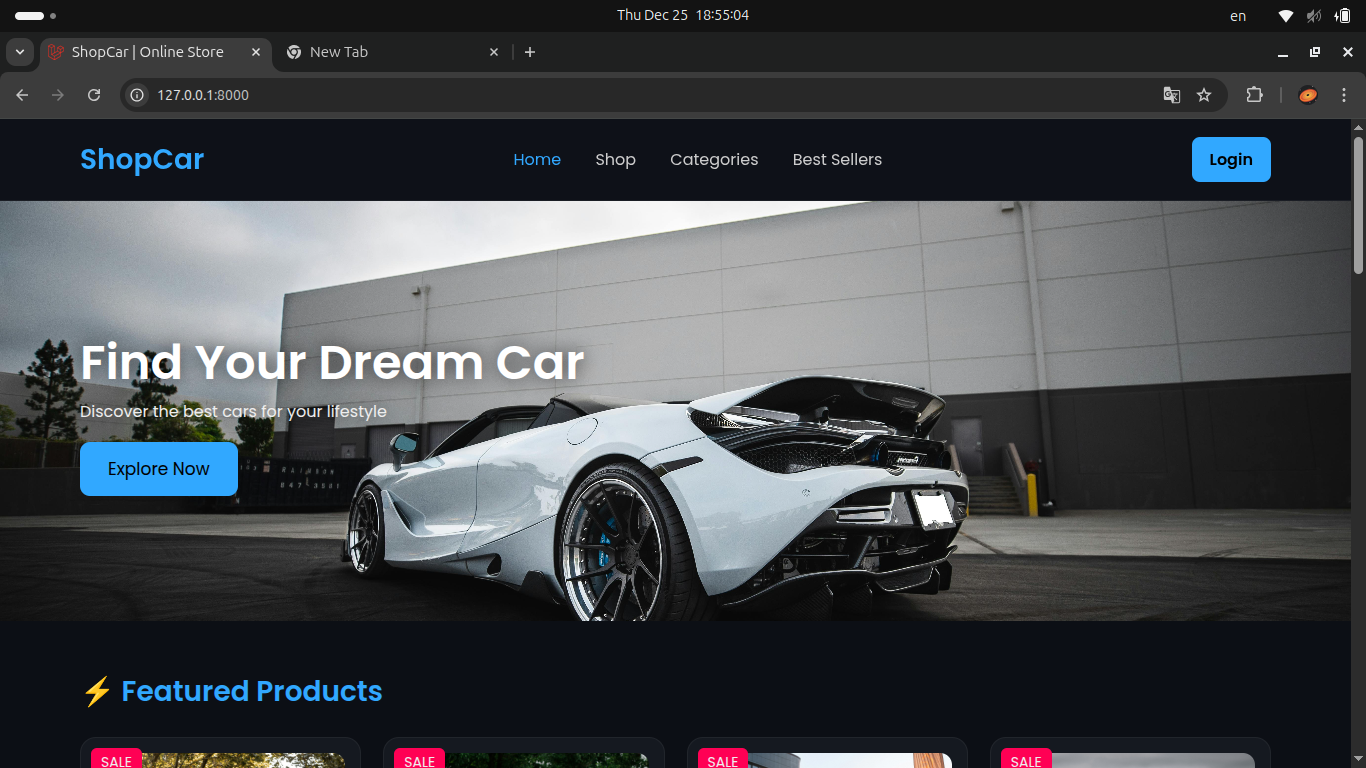
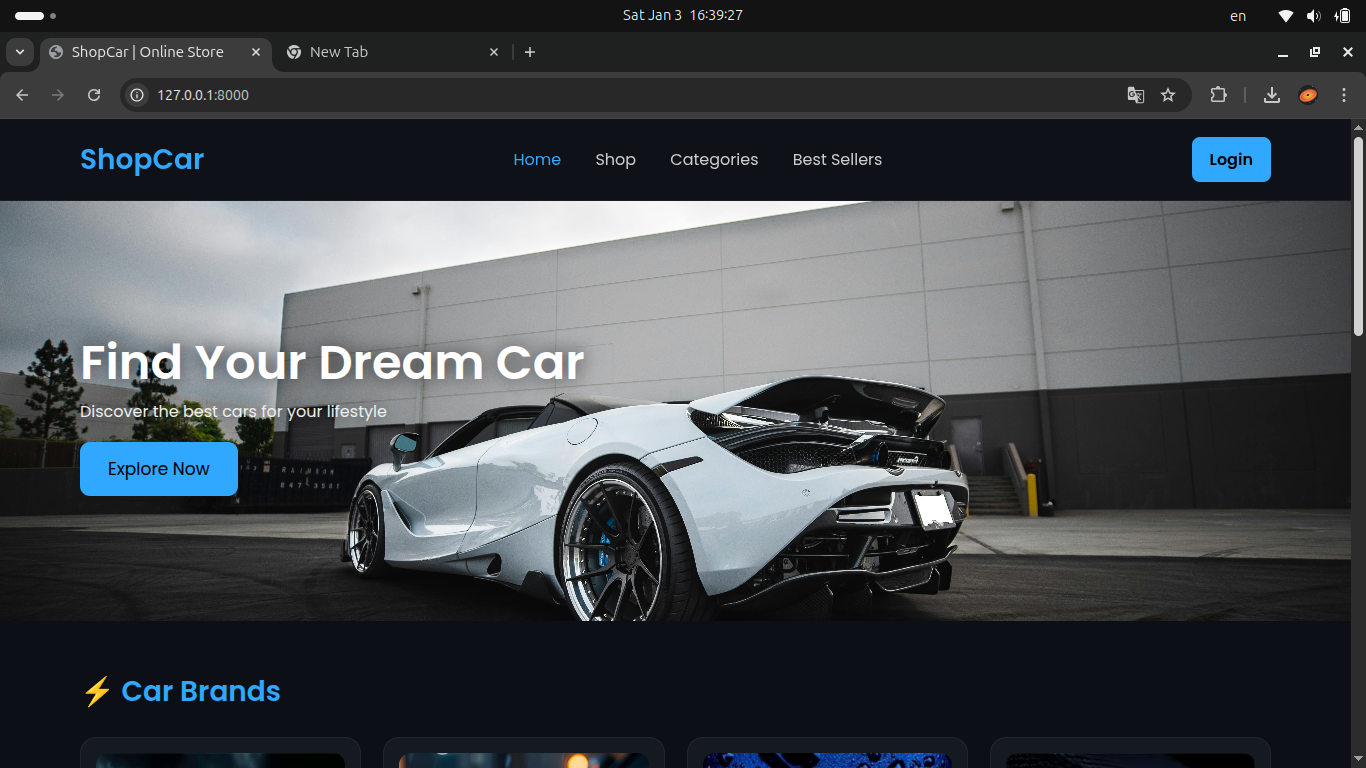
[7] - Changes to the welcome page

diff --git a/resources/views/welcome.blade.php b/resources/views/welcome.blade.php
@@ -61,247 +61,71 @@
 
         <section class="products">
             
-            <h2>⚡ Featured Products</h2>
+            <h2>⚡ Car Brands</h2>
 
             <div class="product-grid">
 
                 <div class="product-card">
-                
-                    <span class="badge-sale">SALE</span>
 
-                    <img src="{{ asset('img/cars/audi/audi_1.jpg') }}" alt="Audi R8">
+                    <img src="{{ asset('img/logo/mercedes.jpeg') }}" alt="mercedes logo">
                 
-                    <h3>Audi R8</h3>
-                
-                    <div class="rating">⭐ 4.9</div>
-                
-                    <p class="price">$150,000 <span class="old-price">$170,000</span></p>
-                
-                    <button class="add-cart">Add to Cart</button>
+                    <h3>Mercedes</h3>
             
                 </div>
 
                 <div class="product-card">
+
+                    <img src="{{ asset('img/logo/bmw.jpeg') }}" alt="bmw logo">
                 
-                    <span class="badge-sale">SALE</span>
-                
-                    <img src="{{ asset('img/cars/audi/audi_2.jpg') }}" alt="Audi Q7">
-                
-                    <h3>Audi Q7</h3>
-                
-                    <div class="rating">⭐ 4.7</div>
-                
-                    <p class="price">$70,000 <span class="old-price">$85,000</span></p>
-                
-                    <button class="add-cart">Add to Cart</button>
+                    <h3>BMW</h3>
             
                 </div>
 
                 <div class="product-card">
+
+                    <img src="{{ asset('img/logo/audi.jpeg') }}" alt="audi logo">
                 
-                    <span class="badge-sale">SALE</span>
-                
-                    <img src="{{ asset('img/cars/audi/audi_3.jpg') }}" alt="Audi Q7">
-                
-                    <h3>Audi Q7</h3>
-                
-                    <div class="rating">⭐ 4.7</div>
-                
-                    <p class="price">$70,000 <span class="old-price">$85,000</span></p>
-                
-                    <button class="add-cart">Add to Cart</button>
+                    <h3>Audi</h3>
             
                 </div>
 
                 <div class="product-card">
+
+                    <img src="{{ asset('img/logo/lamborghini.jpeg') }}" alt="lamborghini logo">
                 
-                    <span class="badge-sale">SALE</span>
-                
-                    <img src="{{ asset('img/cars/bmw/bmw_1.jpg') }}" alt="BMW i8">
-                
-                    <h3>BMW i8</h3>
-                
-                    <div class="rating">⭐ 4.8</div>
-                
-                    <p class="price">$140,000 <span class="old-price">$160,000</span></p>
-                
-                    <button class="add-cart">Add to Cart</button>
+                    <h3>Lamborgini</h3>
             
                 </div>
 
                 <div class="product-card">
+
+                    <img src="{{ asset('img/logo/ferrari.jpeg') }}" alt="ferrari logo">
                 
-                    <span class="badge-sale">SALE</span>
-                
-                    <img src="{{ asset('img/cars/bmw/bmw_2.jpg') }}" alt="BMW X5">
-                
-                    <h3>BMW X5</h3>
-                
-                    <div class="rating">⭐ 4.6</div>
-                
-                    <p class="price">$65,000 <span class="old-price">$78,000</span></p>
-                
-                    <button class="add-cart">Add to Cart</button>
+                    <h3>Ferrari</h3>
             
                 </div>
 
                 <div class="product-card">
+
+                    <img src="{{ asset('img/logo/porsche.jpeg') }}" alt="porsche logo">
                 
-                    <span class="badge-sale">SALE</span>
-                
-                    <img src="{{ asset('img/cars/bmw/bmw_3.jpg') }}" alt="BMW X5">
-                
-                    <h3>BMW X5</h3>
-                
-                    <div class="rating">⭐ 4.6</div>
-                
-                    <p class="price">$65,000 <span class="old-price">$78,000</span></p>
-                
-                    <button class="add-cart">Add to Cart</button>
+                    <h3>Porsche</h3>
             
                 </div>
 
                 <div class="product-card">
+
+                    <img src="{{ asset('img/logo/volkswagen.jpeg') }}" alt="volkswagen logo">
                 
-                    <span class="badge-sale">SALE</span>
-                
-                    <img src="{{ asset('img/cars/ferrari/ferarri_1.jpg') }}" alt="Ferrari F8">
-                
-                    <h3>Ferrari F8</h3>
-                
-                    <div class="rating">⭐ 5.0</div>
-                
-                    <p class="price">$280,000 <span class="old-price">$300,000</span></p>
-                
-                    <button class="add-cart">Add to Cart</button>
+                    <h3>Volkswagen</h3>
             
                 </div>
 
                 <div class="product-card">
-                
-                    <span class="badge-sale">SALE</span>
-                
-                    <img src="{{ asset('img/cars/ferrari/ferarri_2.jpg') }}" alt="Ferrari SF90">
-                
-                    <h3>Ferrari SF90</h3>
-                
-                    <div class="rating">⭐ 4.9</div>
-                
-                    <p class="price">$350,000 <span class="old-price">$380,000</span></p>
-                
-                    <button class="add-cart">Add to Cart</button>
-            
-                </div>
 
-                <div class="product-card">
+                    <img src="{{ asset('img/logo/bentley.jpeg') }}" alt="bentley logo">
                 
-                    <span class="badge-sale">SALE</span>
-                
-                    <img src="{{ asset('img/cars/ferrari/ferarri_3.jpg') }}" alt="Ferrari F8">
-                
-                    <h3>Ferrari F8</h3>
-                
-                    <div class="rating">⭐ 5.0</div>
-                
-                    <p class="price">$280,000 <span class="old-price">$300,000</span></p>
-                
-                    <button class="add-cart">Add to Cart</button>
-            
-                </div>
-
-                <div class="product-card">
-                
-                    <span class="badge-sale">SALE</span>
-                
-                    <img src="{{ asset('img/cars/lamborghini/lamborghini_1.jpg') }}" alt="Lamborghini Huracan">
-                
-                    <h3>Lamborghini Huracan</h3>
-                
-                    <div class="rating">⭐ 4.8</div>
-                
-                    <p class="price">$250,000 <span class="old-price">$270,000</span></p>
-                
-                    <button class="add-cart">Add to Cart</button>
-            
-                </div>
-
-                <div class="product-card">
-                
-                    <span class="badge-sale">SALE</span>
-                
-                    <img src="{{ asset('img/cars/lamborghini/lamborghini_2.jpg') }}" alt="Lamborghini Huracan">
-                
-                    <h3>Lamborghini Huracan</h3>
-                
-                    <div class="rating">⭐ 4.8</div>
-                
-                    <p class="price">$250,000 <span class="old-price">$270,000</span></p>
-                
-                    <button class="add-cart">Add to Cart</button>
-            
-                </div>
-
-                <div class="product-card">
-                
-                    <span class="badge-sale">SALE</span>
-                
-                    <img src="{{ asset('img/cars/lamborghini/lamborghini_3.jpg') }}" alt="Lamborghini Huracan">
-                
-                    <h3>Lamborghini Huracan</h3>
-                
-                    <div class="rating">⭐ 4.8</div>
-                
-                    <p class="price">$250,000 <span class="old-price">$270,000</span></p>
-                
-                    <button class="add-cart">Add to Cart</button>
-            
-                </div>
-
-                <div class="product-card">
-                
-                    <span class="badge-sale">SALE</span>
-                
-                    <img src="{{ asset('img/cars/mercedes/mercedes_1.jpg') }}" alt="Mercedes S-Class">
-                
-                    <h3>Mercedes S-Class</h3>
-                
-                    <div class="rating">⭐ 4.7</div>
-                
-                    <p class="price">$110,000 <span class="old-price">$130,000</span></p>
-                
-                    <button class="add-cart">Add to Cart</button>
-            
-                </div>
-
-                <div class="product-card">
-                
-                    <span class="badge-sale">SALE</span>
-                
-                    <img src="{{ asset('img/cars/mercedes/mercedes_2.jpg') }}" alt="Mercedes S-Class">
-                
-                    <h3>Mercedes S-Class</h3>
-                
-                    <div class="rating">⭐ 4.7</div>
-                
-                    <p class="price">$110,000 <span class="old-price">$130,000</span></p>
-                
-                    <button class="add-cart">Add to Cart</button>
-            
-                </div>
-
-                <div class="product-card">
-                
-                    <span class="badge-sale">SALE</span>
-                
-                    <img src="{{ asset('img/cars/mercedes/mercedes_3.jpg') }}" alt="Mercedes S-Class">
-                
-                    <h3>Mercedes S-Class</h3>
-                
-                    <div class="rating">⭐ 4.7</div>
-                
-                    <p class="price">$110,000 <span class="old-price">$130,000</span></p>
-                
-                    <button class="add-cart">Add to Cart</button>
+                    <h3>Bentley</h3>
             
                 </div>
 
@@ -323,7 +147,7 @@
 
         <footer class="footer">
             
-            <p>© 2025 ShopCar. All rights reserved.</p>
+            <p>© 2026 ShopCar. All rights reserved.</p>
         
         </footer>
 

diff --git a/resources/views/product_list.blade.php b/resources/views/product_list.blade.php
@@ -6,7 +6,7 @@
     
         <meta charset="UTF-8">
         
-        <title>User List | Admin</title>
+        <title>Product List | Admin</title>
         
         <link rel="stylesheet" href="/css/admin.css">
         
@@ -20,7 +20,7 @@
 
             <div class="admin-header">
         
-                <h2>User Management</h2>
+                <h2>Product Management</h2>
             
                 <p>View and manage product</p>
         

diff --git a/README.md b/README.md
@@ -45,6 +45,12 @@ The project covers:
 ### Welcome Page
 ![Welcome Page](screenshots/welcome.png)
 
+### Welcome Page
+![Welcome Page](screenshots/welcome2.png)
+
+### Welcome Page
+![Welcome Page](screenshots/welcome3.png)
+
 ### Login Page
 ![Login Page](screenshots/login.png)
 
